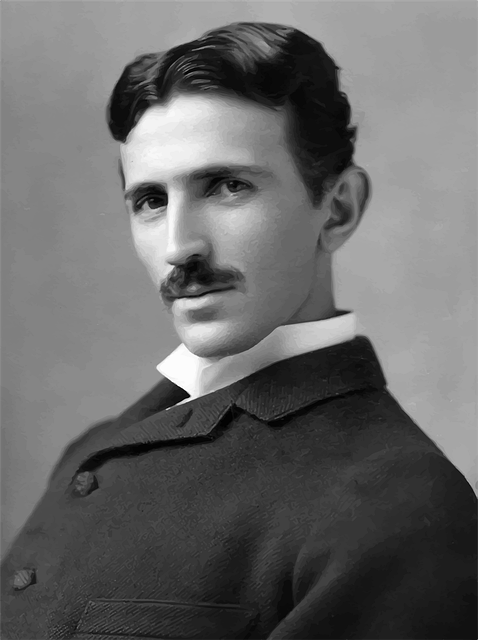
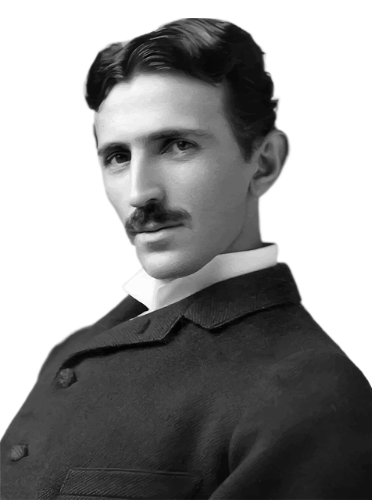
Add files via upload

diff --git a/index.html b/index.html
@@ -76,7 +76,7 @@
 </div>
 
 <div class="estudante-div">
-    <img class="imagem-alunos" src="./img/eu.jpg"> 
+    <img class="imagem-alunos" src="./img/eu.png"> 
     <h3 class="nome-aluno">Aluno Jean Guilherme Nascimento</h3>
     <a href="https://www.youtube.com/watch?v=o0WWaA3oFa4"  target="_blank" rel="noopener noferrer"> <img class="estudante-icone" src="./img/facebook.png"> </a>
 <a href="https://www.youtube.com/watch?v=dQw4w9WgXcQ" target="_blank" rel="noopener noferrer"> <img class="estudante-icone" src="./img/whatsapp.png"> </a>
@@ -92,4 +92,9 @@
         </div>
 </div>
 </section>
+<footer>
+
+    <h2 class="rodape">Colégio Dr. Claudino dos Santos </h2>
+
+</footer>
 </html>

diff --git a/style.css b/style.css
@@ -93,3 +93,9 @@ padding: 20px 0;
 }
 .estudante-todos{display: grid;
     grid-template-columns: 25% 25% 25% 25%;}
+
+    footer {
+        background-color: rgb(255, 0, 0);
+        color: rgb(0, 0, 0);
+        text-align: center
+    }
